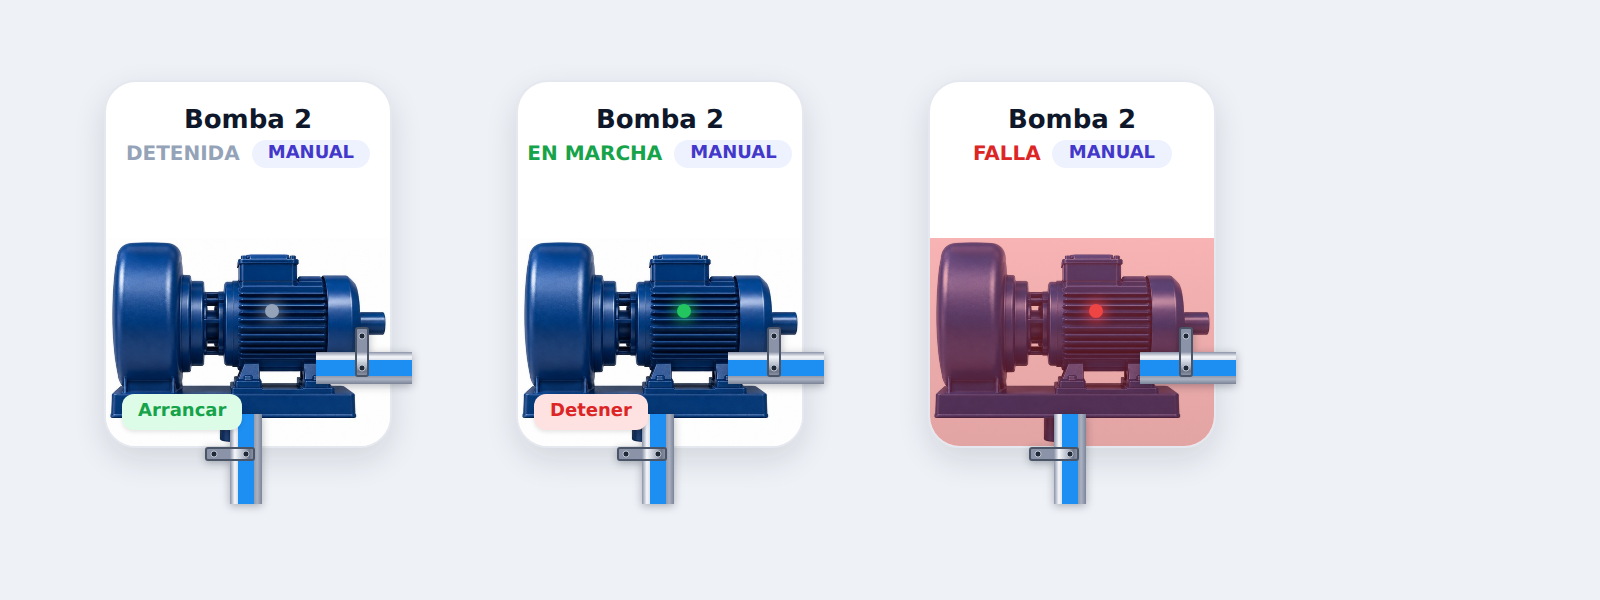
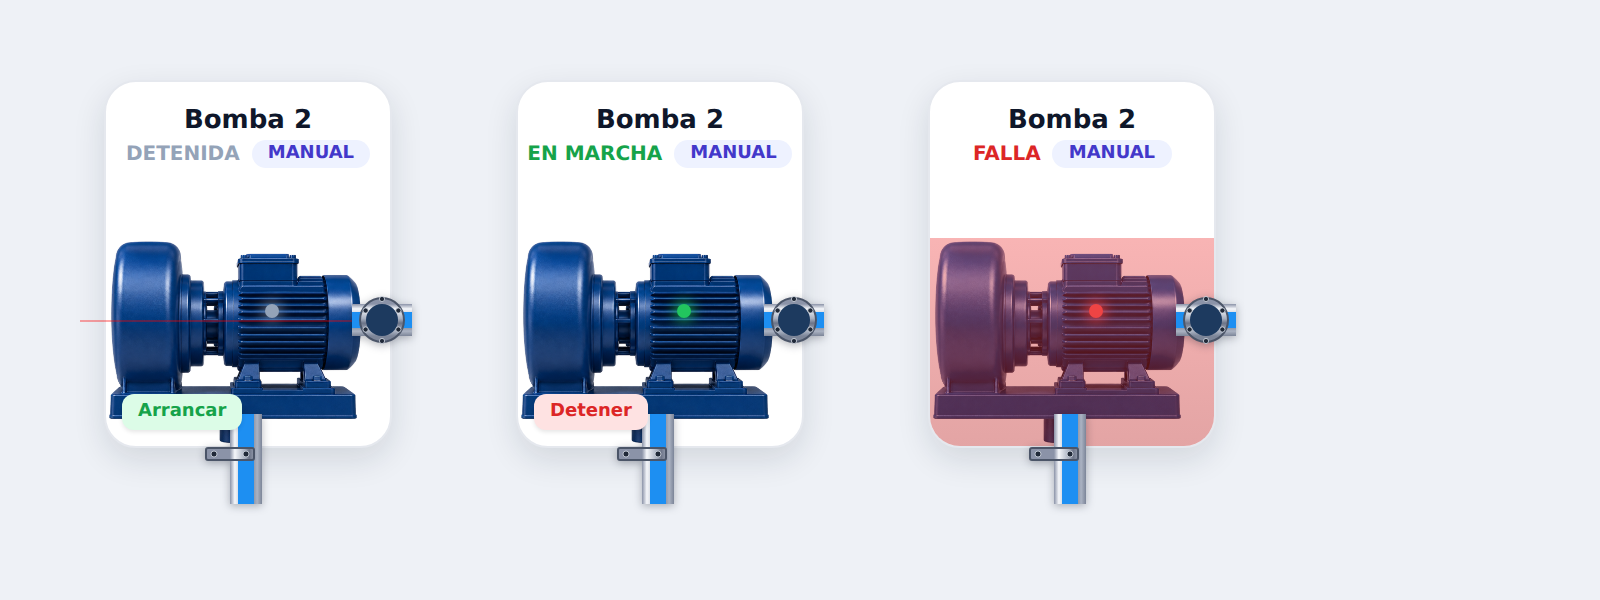
Cambio en las tuberias

diff --git a/src/components/canvas/widgets/PumpWidget.jsx b/src/components/canvas/widgets/PumpWidget.jsx
@@ -20,26 +20,32 @@ const DEFAULT_HEIGHT = 212
 // own coordinate space and the runs stretch from there to the widget ports.
 // SIDE_ROOT_X/SIDE_ROOT_Y/BOTTOM_ROOT_Y are tuned by eye to where the pump
 // PHOTO's own body/base plate actually sit in PumpCard.jsx's equipment
-// art (measured directly off that image) — not to the actual logical
-// ports (registry.js's fixed fx/fy fractions, untouched here), which stay
-// exactly where every already-placed pump and its connected pipes expect
-// them. These roots only decide how much of the connecting tube is drawn
-// between the photo and that fixed port, so the pipe reads as growing out
-// of the pump body instead of floating next to it.
+// art (measured directly off that image). BOTTOM_ROOT_Y only decides how
+// much connecting tube is drawn between the photo and the bottom port —
+// that port itself (registry.js's fy: 1, always the widget's own bottom
+// edge) is untouched. The side port is different: its fy is NOT fixed
+// independent of this file — SIDE_PORT_FRACTION below and registry.js's
+// port 1 fy are the same number kept in sync by hand, so moving the
+// discharge means editing both, and only makes sense if nothing is
+// already connected there (see registry.js's port 1 comment).
 const CARD_WIDTH = 142
 const CARD_HEIGHT = 182
-const SIDE_ROOT_X = 106
-const SIDE_ROOT_Y = 144
+const SIDE_ROOT_X = 136
+const SIDE_ROOT_Y = 120
 const BOTTOM_ROOT_Y = 167
 
-// The discharge leaves the pump volute, not the middle of the information
-// card. At the default 212px widget height this lands 38px below the old
-// center port and exactly on the outlet drawn inside PumpCard.
-const SIDE_PORT_FRACTION = 144 / DEFAULT_HEIGHT
+// Lines up with the pump photo's own shaft/body centerline (measured
+// directly off the image, ~41% down it). This and registry.js's port 1
+// fy MUST stay equal.
+const SIDE_PORT_FRACTION = 120 / DEFAULT_HEIGHT
 
 // One continuous pipe from the pump body to the exterior flange. The
 // horizontal and vertical variants share exactly the same 16px tube,
-// 8px water core, 24x6 flange and bolt offsets; only the axis changes.
+// 8px water core, 24x6 flange and bolt offsets as every other pipe
+// piece in this app (PipeStraightWidget's own Flange, PipeElbowWidget,
+// PipeTeeWidget) — deliberately the identical shape, not a look-alike,
+// so a pump's connection reads as the same fitting as the rest of the
+// network instead of its own one-off design.
 function PumpConnection({ orientation, length, scale }) {
   const uid = useId()
   const gradId = `pumpConnection-${uid}`

diff --git a/src/components/PumpCard.jsx b/src/components/PumpCard.jsx
@@ -1,13 +1,15 @@
 import { useId } from 'react'
 import { IconAlertTriangle } from '../icons.jsx'
-import pumpPhoto from '../assets/pump-photo.jpg'
+import pumpPhoto from '../assets/pump-photo.png'
 
 // Equipment art dimensions: the photo itself, fit to the card's own 142px
 // width (never cropped/overflowed — CARD_WIDTH in PumpWidget.jsx is what
 // this has to match) at its native aspect ratio, so nothing is stretched
-// or sliced off. 104.5 = 142 * (photo's own height/width ratio).
+// or sliced off. 104.2 = 142 * (photo's own height/width ratio). PNG (not
+// JPEG) because this version has a real alpha-cut background — no more
+// white box around the pump's silhouette, it just sits on the card.
 const EQUIPMENT_W = 142
-const EQUIPMENT_H = 104.5
+const EQUIPMENT_H = 104.2
 
 function PumpEquipment({ running, fault }) {
   const uid = useId().replace(/:/g, '')
@@ -17,7 +19,7 @@ function PumpEquipment({ running, fault }) {
   return (
     <svg
       viewBox={`0 0 ${EQUIPMENT_W} ${EQUIPMENT_H}`}
-      className="h-[104.5px] w-[142px] overflow-visible"
+      className="h-[104.2px] w-[142px] overflow-visible"
       role="img"
       aria-label="Bomba centrífuga horizontal"
     >

diff --git a/src/components/canvas/registry.js b/src/components/canvas/registry.js
@@ -70,14 +70,14 @@ export const WIDGET_REGISTRY = {
     // the flange's own bottom edge, same as the tank's outlet port. DO
     // NOT change this one — every existing suction connection depends on
     // it landing exactly here.
-    // Port 1: discharge flange on the card's own right edge, lowered to
-    // the pump volute's outlet (dir: 0 = east),
-    // added so the pump has an outlet to attach a discharge line to
-    // without disturbing the suction side at all (see PumpWidget.jsx's
-    // PumpSideFlange).
+    // Port 1: discharge flange on the card's own right edge, raised to
+    // the pump photo's own shaft/body centerline (dir: 0 = east), added
+    // so the pump has an outlet to attach a discharge line to without
+    // disturbing the suction side at all (see PumpWidget.jsx's
+    // SIDE_PORT_FRACTION, which this must always match).
     ports: [
       { fx: 0.5, fy: 1, dir: 90 },
-      { fx: 1, fy: 144 / 212, dir: 0 },
+      { fx: 1, fy: 120 / 212, dir: 0 },
     ],
   },
   tank: {
